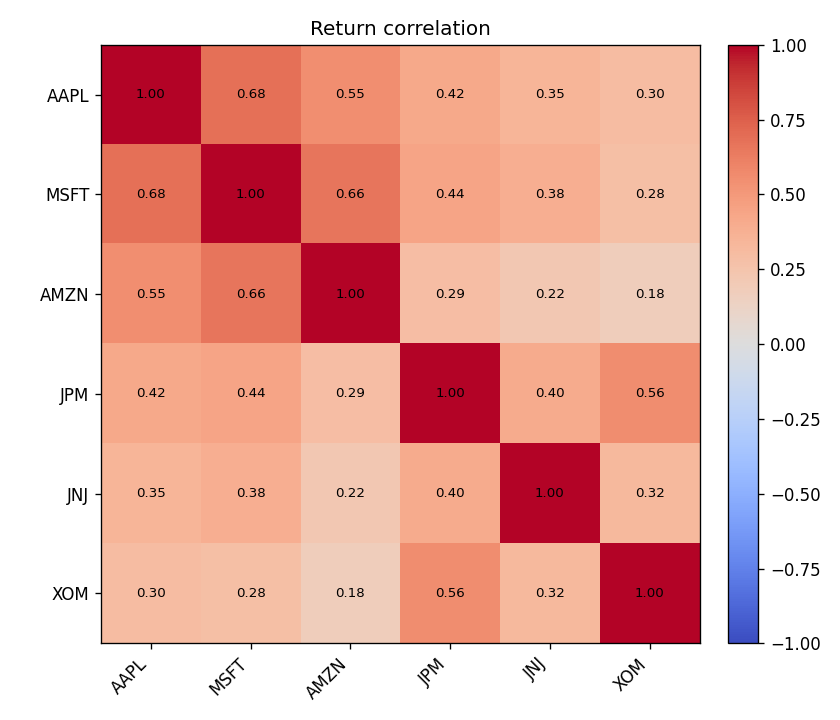
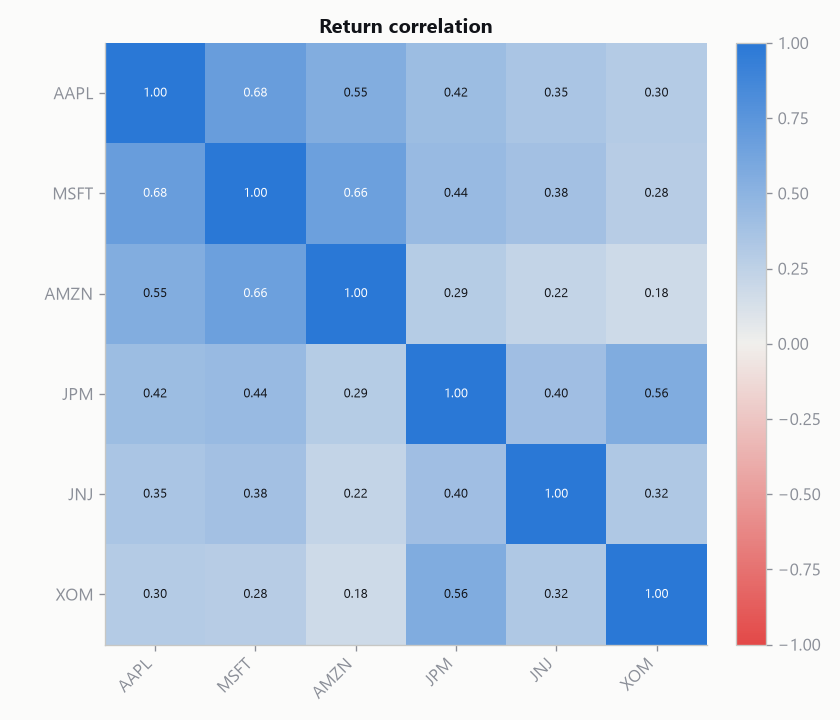
Replace default matplotlib styling with a validated chart style
Verified the package end to end first: pytest (16/16) and a live run of
analyze.py against yfinance both pass. The charts themselves used
unstyled matplotlib defaults (default blue/orange, heavy gridlines, no
value labels), so added viz_style.py: a light analytics surface with a
categorical palette validated for colorblind-safe adjacent contrast
(dataviz six-checks: lightness band, chroma floor, CVD separation,
normal-vision floor all pass). Each holding in the return chart now gets
its own identity color plus a legend; the weight-vs-risk bars get direct
value labels; the correlation heatmap uses a diverging blue/red/gray
colormap instead of the default coolwarm.

diff --git a/src/portfolio_analysis/plotting.py b/src/portfolio_analysis/plotting.py
@@ -13,59 +13,72 @@ import matplotlib.pyplot as plt
 import numpy as np
 import pandas as pd
 
+from . import viz_style
+
 
 def plot_cumulative_returns(
     portfolio_returns: pd.Series,
     asset_returns: pd.DataFrame | None = None,
     title: str = "Cumulative return",
 ):
-    """Portfolio growth, optionally with each holding faded in behind it."""
+    """Portfolio growth, with each holding in its own color behind it."""
+    viz_style.apply()
     fig, ax = plt.subplots(figsize=(10, 5))
     if asset_returns is not None:
-        for col in asset_returns.columns:
+        for i, col in enumerate(asset_returns.columns):
             equity = (1.0 + asset_returns[col].fillna(0.0)).cumprod()
-            ax.plot(equity.index, equity.values, alpha=0.25, linewidth=1)
+            color = viz_style.SERIES[i % len(viz_style.SERIES)]
+            ax.plot(equity.index, equity.values, color=color, alpha=0.55,
+                    linewidth=1.3, label=col)
     port_equity = (1.0 + portfolio_returns).cumprod()
     ax.plot(
         port_equity.index, port_equity.values,
-        color="black", linewidth=2, label="Portfolio",
+        color=viz_style.INK, linewidth=2.4, label="Portfolio",
     )
     ax.set_title(title)
     ax.set_ylabel("Growth of 1 unit")
     ax.set_xlabel("Date")
-    ax.legend()
-    ax.grid(True, alpha=0.3)
+    ax.legend(ncols=2)
     fig.tight_layout()
     return fig
 
 
 def plot_drawdown(returns: pd.Series, title: str = "Portfolio drawdown"):
+    viz_style.apply()
     equity = (1.0 + returns).cumprod()
     drawdown = equity / equity.cummax() - 1.0
     fig, ax = plt.subplots(figsize=(10, 3.5))
-    ax.fill_between(drawdown.index, drawdown.values, 0.0, color="tab:red", alpha=0.4)
+    ax.fill_between(drawdown.index, drawdown.values, 0.0,
+                    color=viz_style.RED, alpha=0.16)
+    ax.plot(drawdown.index, drawdown.values, color=viz_style.RED, linewidth=1.4)
+    trough = drawdown.idxmin()
+    ax.annotate(f"{drawdown.min():.1%}", xy=(trough, drawdown.min()),
+                xytext=(0, -12), textcoords="offset points",
+                ha="center", fontsize=9, color=viz_style.INK, fontweight="bold")
     ax.set_title(title)
     ax.set_ylabel("Drawdown")
     ax.set_xlabel("Date")
-    ax.grid(True, alpha=0.3)
+    ax.grid(axis="x", visible=False)
     fig.tight_layout()
     return fig
 
 
 def plot_correlation(corr: pd.DataFrame, title: str = "Return correlation"):
     """A simple correlation heatmap with annotated cells."""
+    viz_style.apply()
     fig, ax = plt.subplots(figsize=(7, 6))
-    im = ax.imshow(corr.to_numpy(), vmin=-1, vmax=1, cmap="coolwarm")
+    im = ax.imshow(corr.to_numpy(), vmin=-1, vmax=1, cmap=viz_style.diverging_cmap())
     ax.set_xticks(range(len(corr.columns)))
     ax.set_yticks(range(len(corr.index)))
     ax.set_xticklabels(corr.columns, rotation=45, ha="right")
     ax.set_yticklabels(corr.index)
+    ax.grid(visible=False)
     for i in range(len(corr.index)):
         for j in range(len(corr.columns)):
-            ax.text(
-                j, i, f"{corr.iloc[i, j]:.2f}",
-                ha="center", va="center", fontsize=8,
-            )
+            v = corr.iloc[i, j]
+            text_color = "white" if abs(v) > 0.6 else viz_style.INK
+            ax.text(j, i, f"{v:.2f}", ha="center", va="center",
+                   fontsize=8, color=text_color)
     fig.colorbar(im, ax=ax, fraction=0.046, pad=0.04)
     ax.set_title(title)
     fig.tight_layout()
@@ -76,18 +89,24 @@ def plot_weight_vs_risk(
     contributions: pd.DataFrame, title: str = "Weight vs risk share"
 ):
     """Side-by-side bars of capital weight and risk share per holding."""
+    viz_style.apply()
     labels = list(contributions.index)
     x = np.arange(len(labels))
-    width = 0.4
+    width = 0.34
     fig, ax = plt.subplots(figsize=(10, 4.5))
-    ax.bar(x - width / 2, contributions["Weight"], width, label="Weight")
-    ax.bar(x + width / 2, contributions["Risk share"], width, label="Risk share")
+    b1 = ax.bar(x - width / 2, contributions["Weight"], width,
+               label="Weight", color=viz_style.BLUE)
+    b2 = ax.bar(x + width / 2, contributions["Risk share"], width,
+               label="Risk share", color=viz_style.ORANGE)
+    for bars in (b1, b2):
+        ax.bar_label(bars, fmt="%.2f", padding=2, fontsize=8,
+                     color=viz_style.INK_2)
     ax.set_xticks(x)
     ax.set_xticklabels(labels, rotation=45, ha="right")
     ax.set_ylabel("Share of portfolio")
     ax.set_title(title)
     ax.legend()
-    ax.grid(True, axis="y", alpha=0.3)
+    ax.grid(axis="x", visible=False)
     fig.tight_layout()
     return fig
 

diff --git a/src/portfolio_analysis/viz_style.py b/src/portfolio_analysis/viz_style.py
@@ -1,0 +1,53 @@
+"""Shared chart style: a validated categorical palette on a clean light
+surface, styled for a quant/analytics register rather than matplotlib
+defaults."""
+
+from __future__ import annotations
+
+import matplotlib as mpl
+from matplotlib.colors import LinearSegmentedColormap
+
+SURFACE = "#fbfbfa"
+INK = "#111318"
+INK_2 = "#4b4f58"
+MUTED = "#8b8f98"
+GRID = "#e4e4e2"
+BASELINE = "#c7c7c4"
+
+# Fixed-order categorical set (validated: adjacent-pair CVD dE >= 8, normal
+# vision floor >= 15 on this surface). Never cycle past what's needed.
+SERIES = ["#2a78d6", "#eb6834", "#1baf7a", "#4a3aa7", "#e34948", "#eda100"]
+BLUE, ORANGE, AQUA, VIOLET, RED, YELLOW = SERIES
+
+DIVERGE_NEG, DIVERGE_MID, DIVERGE_POS = "#e34948", "#f0efec", "#2a78d6"
+
+
+def apply() -> None:
+    mpl.rcParams.update({
+        "figure.facecolor": SURFACE,
+        "axes.facecolor": SURFACE,
+        "savefig.facecolor": SURFACE,
+        "axes.edgecolor": BASELINE,
+        "axes.labelcolor": INK_2,
+        "axes.titlecolor": INK,
+        "axes.titleweight": "bold",
+        "axes.titlesize": 12,
+        "axes.grid": True,
+        "grid.color": GRID,
+        "grid.linewidth": 0.8,
+        "axes.spines.top": False,
+        "axes.spines.right": False,
+        "xtick.color": MUTED,
+        "ytick.color": MUTED,
+        "text.color": INK,
+        "font.family": "sans-serif",
+        "font.sans-serif": ["Segoe UI", "Arial", "sans-serif"],
+        "lines.linewidth": 2,
+        "legend.frameon": False,
+        "figure.dpi": 120,
+    })
+
+
+def diverging_cmap():
+    return LinearSegmentedColormap.from_list(
+        "diverge", [DIVERGE_NEG, DIVERGE_MID, DIVERGE_POS])
